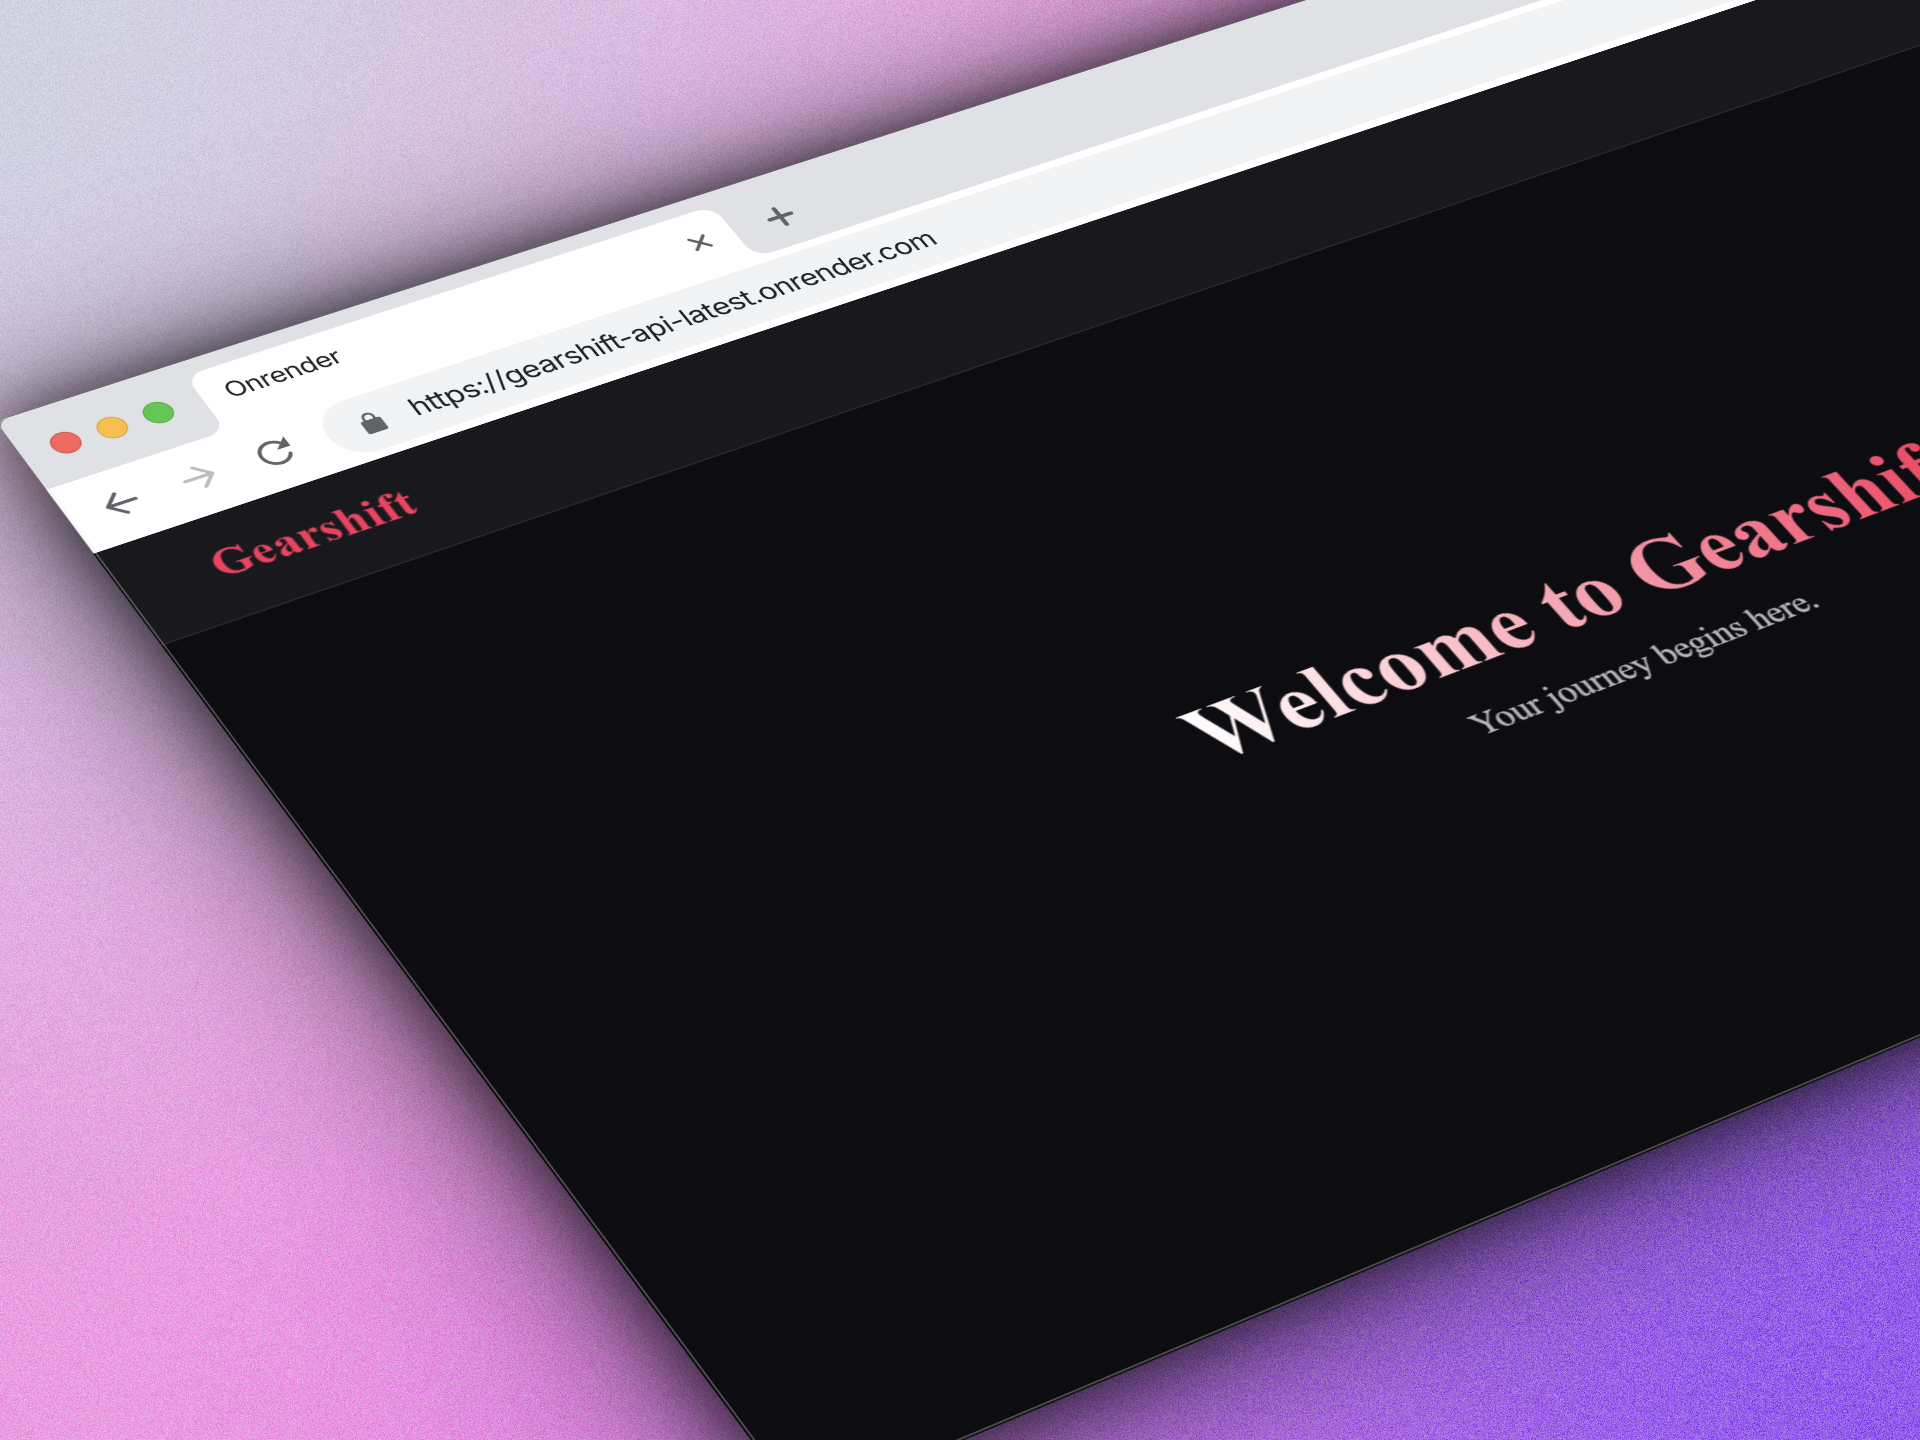
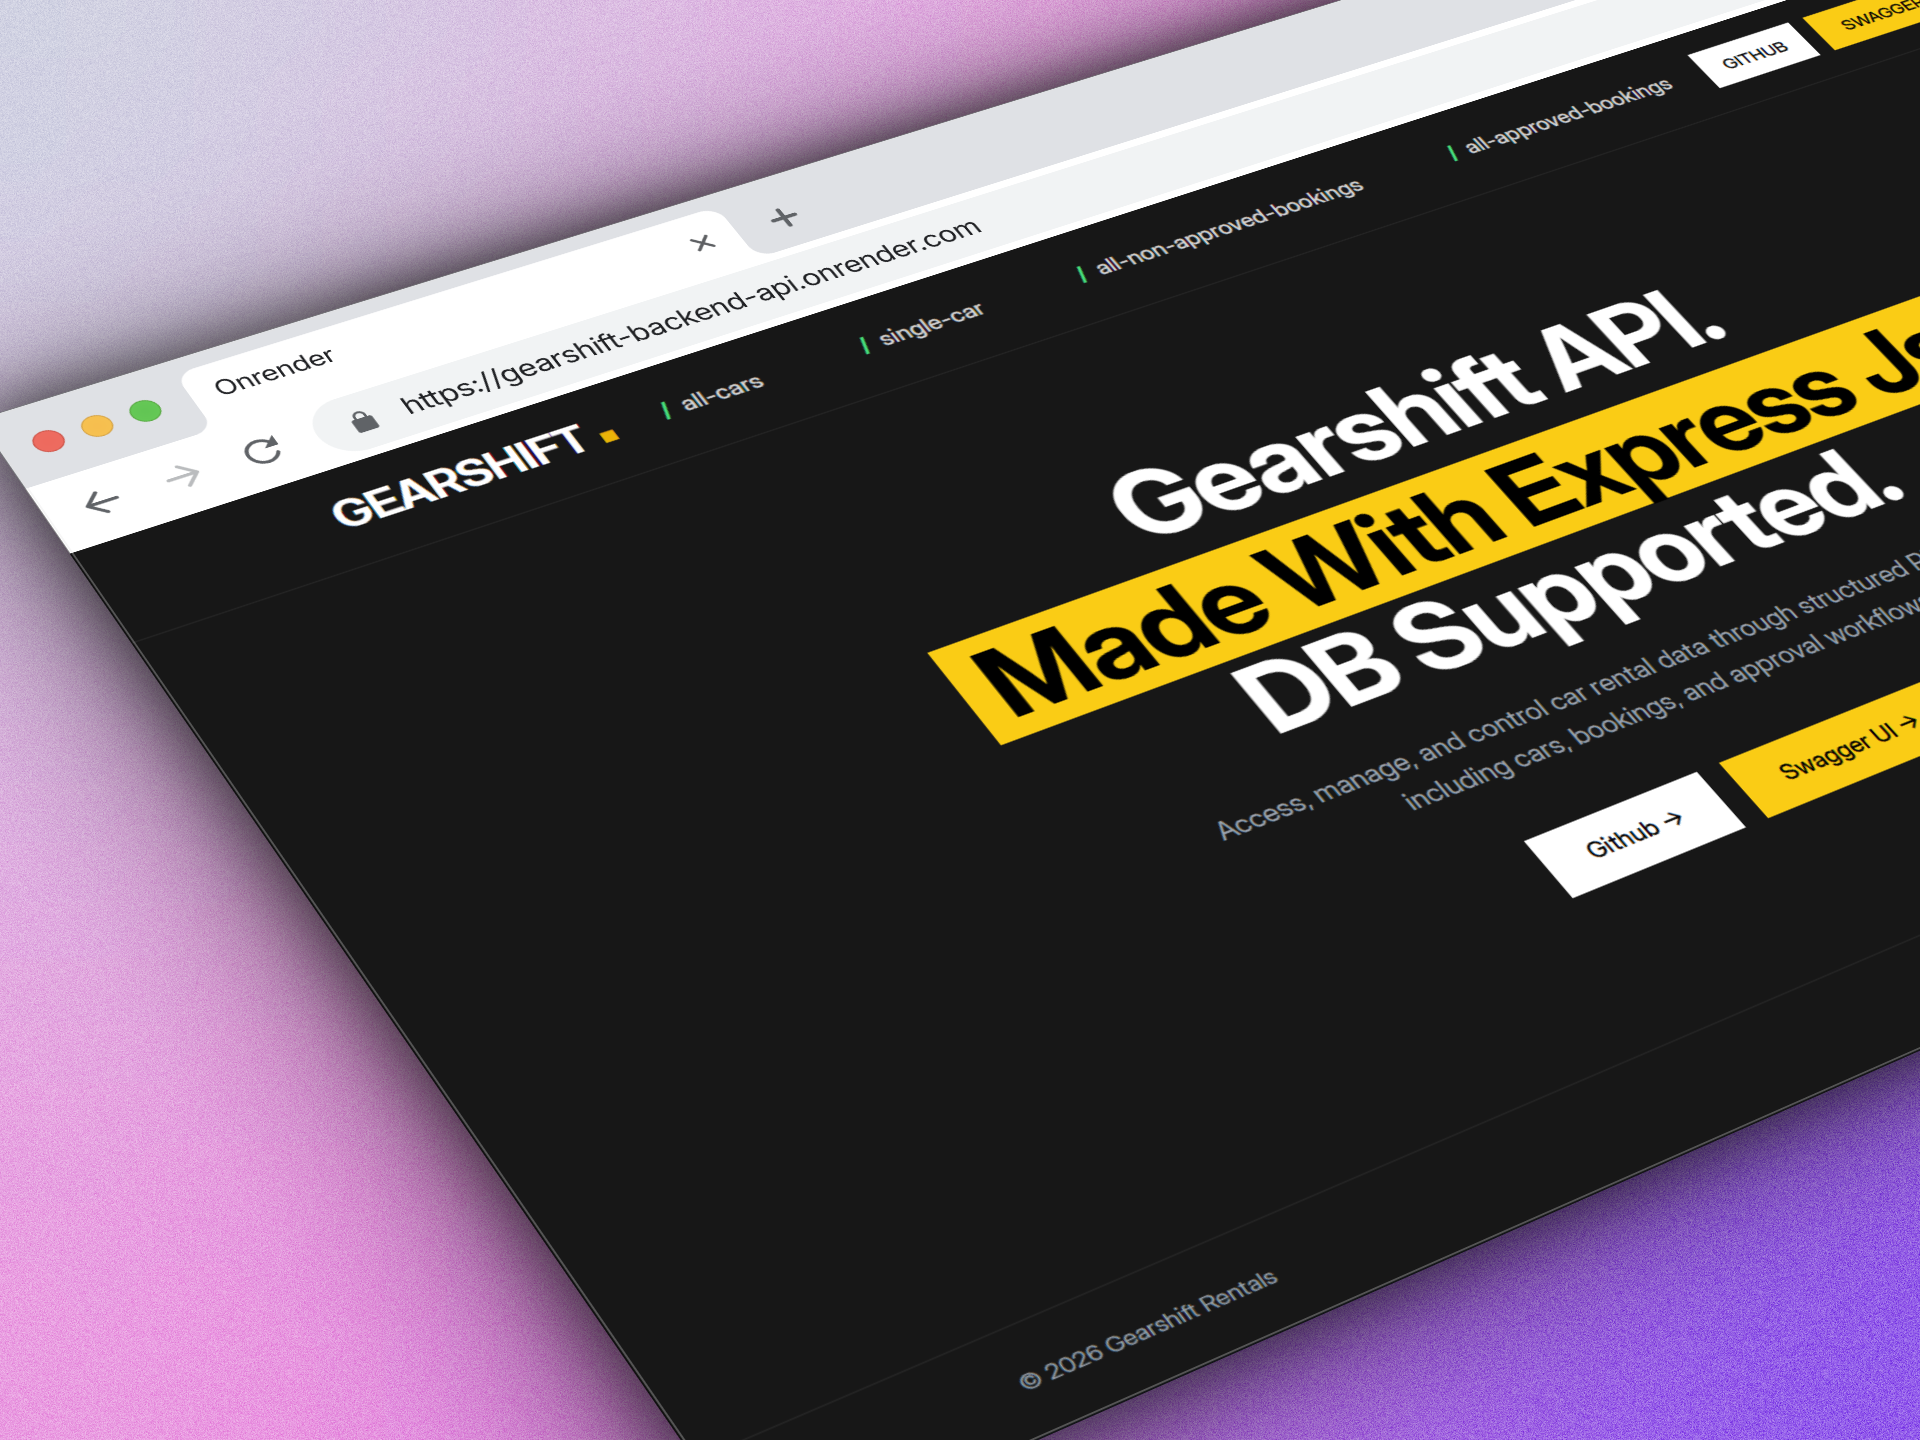
Gearshift API Image and Link Changes Done

diff --git a/src/components/technologies/Xampp.tsx b/src/components/technologies/Xampp.tsx
@@ -1,0 +1,20 @@
+export default function Xampp() {
+  return (
+    <svg
+      viewBox="-1 0 258 258"
+      xmlns="http://www.w3.org/2000/svg"
+    >
+      {/* Background */}
+      <path
+        fill="#FB7A24"
+        d="M127.928916,0.00180988628 C161.155628,0.00180988628 194.384153,0.00180988628 227.610865,0 C231.780293,0 235.911652,0.361977256 239.91249,1.58184061 C248.586712,4.22608447 253.180333,10.4466636 254.980438,19.0200949 C255.69468,22.4190614 255.897713,25.8849936 255.904964,29.3491159 C255.957535,52.6206337 255.997416,75.8921515 255.999229,99.1636693 C256.001042,141.547586 256.00648,183.931503 255.919466,226.31542 C255.906776,232.248227 255.59135,238.24619 252.661874,243.650511 C249.413346,249.644854 244.964748,254.388566 238.212088,256.475365 C236.992078,256.851821 235.717683,257.280764 234.466855,257.280764 C231.584511,257.282574 228.780118,257.997479 225.906839,257.997479 C160.840202,257.99205 95.7735648,258.030057 30.7069279,257.926894 C25.4153804,257.917844 20.0368188,257.532339 15.0099394,255.378574 C14.0092767,254.949631 12.9995501,254.589464 12.1203448,253.919806 C5.71936699,249.042162 1.37409831,242.959134 0.442321884,234.727772 C0.106954882,231.759558 0,228.807634 0,225.83942 C0.0108767677,159.887164 0.0163151515,93.9349079 0.050758249,27.9826518 C0.0525710436,24.1565522 0.092452525,20.2652967 1.26895623,16.6038967 C4.4032781,6.84498991 11.2610801,1.51849459 21.4272323,0.436182594 C23.7893036,0.184608401 26.1731286,0.0217186354 28.5460767,0.0199087491 C61.6730854,-0.00723954512 94.8019068,0.00180988628 127.928916,0.00180988628 Z"
+      />
+
+      {/* Logo shape */}
+      <path
+        fill="#FFFFFF"
+        d="M128.775254,164.113293 C128.047679,168.567424 127.537291,172.592612 125.937351,176.30288 C118.44623,193.686843 105.681098,204.28011 86.5433558,206.388628 C63.921581,208.880842 43.0282481,194.919376 36.7461311,173.235122 C34.4692936,165.376594 34.6973393,157.366035 35.5226477,149.368145 C36.4040625,140.82186 38.921615,132.717187 42.8526891,125.072225 C43.4155639,123.979054 43.4047046,123.153745 42.7006586,122.094962 C36.6646862,113.01657 34.3226927,102.987987 35.1733395,92.1630542 C35.6276211,86.3768462 37.0320932,80.8422124 39.6564291,75.6586967 C47.3448281,60.4737467 64.225642,47.5873529 86.8347475,49.726639 C106.714544,51.6071114 125.128332,68.7557886 128.002432,88.041942 C128.147223,89.0102314 128.418706,89.960422 128.737246,91.3884226 C129.213246,88.8020944 129.557125,86.6682379 130.002357,84.5542902 C133.705385,67.0327764 150.855872,48.6986234 175.166271,48.4723875 C199.80607,48.2443418 218.053348,67.5685028 221.495753,85.51715 C222.950902,93.1023854 222.697518,100.680381 221.497563,108.254757 C220.297608,115.821894 218.075067,123.095829 214.82632,130.029505 C214.109605,131.55886 214.18381,132.659271 215.101423,134.080032 C220.408011,142.304157 222.750005,151.331873 222.449563,161.136029 C221.821533,181.593179 207.353298,199.938192 187.448163,204.736201 C159.657352,211.432783 138.354984,194.812592 131.186023,174.70475 C130.016836,171.432475 129.463011,168.015409 128.775254,164.113293 Z"
+      />
+    </svg>
+  );
+}

diff --git a/src/config/Projects.tsx b/src/config/Projects.tsx
@@ -18,6 +18,7 @@ import TailwindCss from '@/components/technologies/TailwindCss';
 import ThreeJs from '@/components/technologies/ThreeJs';
 import TypeScript from '@/components/technologies/TypeScript';
 import Vercel from '@/components/technologies/Vercel';
+import Xampp from '@/components/technologies/Xampp';
 import { Project } from '@/types/project';
 
 export const projects: Project[] = [
@@ -57,7 +58,7 @@ export const projects: Project[] = [
       'A RESTful API built with Express.js, providing secure and structured endpoints for handling CRUD operations and backend integration.',
     image: '/project/gearshift-api.png',
     // video: 'https://ik.imagekit.io/hokb3mrdr/appwrite.mp4',
-    link: 'https://gearshift-api-latest.onrender.com/',
+    link: 'https://gearshift-backend-api.onrender.com/',
     technologies: [
       { name: 'NPM', icon: <NPM key="npm" /> },
       { name: 'Node.js', icon: <NodeJs key="nodejs" /> },
@@ -65,9 +66,10 @@ export const projects: Project[] = [
       { name: 'Multer', icon: <Multer key="multer" /> },
       { name: 'AWS', icon: <AWS key="aws" /> },
       { name: 'Swagger', icon: <Swagger key="swagger" /> },
+      { name: 'Xampp', icon: <Xampp key="xampp" /> },
     ],
     github: 'https://github.com/rehman2711/gearshift-api-with-db-express-js',
-    live: 'https://gearshift-api-latest.onrender.com/',
+    live: 'https://gearshift-backend-api.onrender.com/',
     details: true,
     projectDetailsPageSlug: '/projects/gearshift-api',
     isWorking: true,
